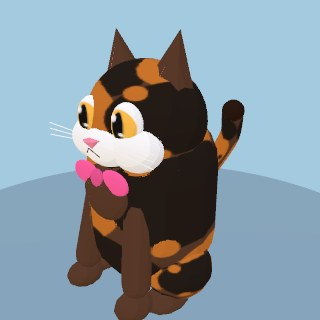
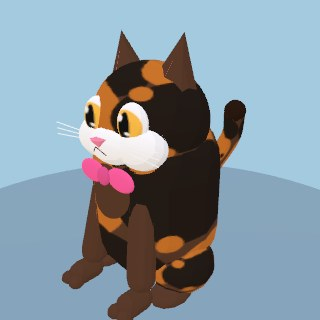
True painted-on chest decal + seamless sit-pose paws
- The chest patch is now a thin decal shell bent onto the torso: a
  multi-ring polar grid whose every vertex sits on the body capsule's own
  cross-section radius (+0.018), so it reads as a coat marking — flat like
  paint, with nothing for the bandana flap or legs to collide with. (A
  CircleGeometry fan sagged below the curved body mid-span and let the
  coat poke through as wedges; the grid keeps every triangle short.) The
  tuxedo/mitted bib is wide enough that the legs emerge inside its span.
- Sit-pose paws: the ball paw is replaced by a forward-pointing rounded
  capsule whose back cap buries into the leg's lower end — its radius
  nearly matches the leg's, so the ankle reads as one form bending
  forward — with two toe bumps at the tip, per reference photos.

Catalog thumbnails regenerated.

Claude-Session: https://claude.ai/code/session_017fyz1DfGtQ1NoLSq3UX5Bd

diff --git a/src/models.js b/src/models.js
@@ -566,6 +566,59 @@ const _cShade = _shared(new THREE.MeshStandardMaterial({ color: 0x0a0a0a, roughn
 // Constant cat geometries — identical for every cat, so build each ONCE and let
 // all drivers reference it (flagged shared so disposeGroup leaves them alone).
 const _sharedGeo = (g) => { g.userData.shared = true; return g; };
+
+// Chest-patch decal: a disc bent onto the torso so every vertex sits on the
+// body capsule's own cross-section radius (+0.018 so it draws on top). Reads
+// as a painted coat marking — no bulge to shade as a lump or to clip the
+// neckwear/legs. Two sizes: the big tuxedo/mitted bib and the regular patch.
+const _chestDecalGeo = {};
+function chestDecalGeo(big) {
+  const key = big ? "b" : "s";
+  if (_chestDecalGeo[key]) return _chestDecalGeo[key];
+  // The bib is wide enough (±0.62 rad) that the front legs emerge INSIDE its
+  // span — on a dark tuxedo coat any gap between bib edge and white leg
+  // reads as a black sliver slicing the bib.
+  const { A, H, yc } = big ? { A: 0.62, H: 0.5, yc: 1.14 } : { A: 0.4, H: 0.36, yc: 1.28 };
+  // A multi-ring polar grid, NOT CircleGeometry — that's a fan from the
+  // centre whose long flat radial triangles sag below the curved body
+  // mid-span once bent, letting the coat poke through as wedges.
+  const S = 28, R = 6;
+  const disc = [[0, 0]];
+  for (let j = 1; j <= R; j++)
+    for (let k = 0; k < S; k++) {
+      const a = (k / S) * Math.PI * 2, rho = j / R;
+      disc.push([rho * Math.cos(a), rho * Math.sin(a)]);
+    }
+  const idx = [];
+  for (let k = 0; k < S; k++) idx.push(0, 1 + k, 1 + ((k + 1) % S));
+  for (let j = 1; j < R; j++) {
+    const a0 = 1 + (j - 1) * S, b0 = 1 + j * S;
+    for (let k = 0; k < S; k++) {
+      const k2 = (k + 1) % S;
+      idx.push(a0 + k, b0 + k, b0 + k2, a0 + k, b0 + k2, a0 + k2);
+    }
+  }
+  const pos = new Float32Array(disc.length * 3);
+  const uv = new Float32Array(disc.length * 2);
+  disc.forEach(([px, py], i) => {
+    const y = yc + py * H;
+    const dy = Math.max(0, y - 1.39); // torso cylinder ends at y1.39, hemisphere above
+    const r = Math.sqrt(Math.max(0.01, 0.81 - dy * dy)) + 0.018;
+    const phi = px * A;
+    pos[i * 3] = r * Math.sin(phi);
+    pos[i * 3 + 1] = y;
+    pos[i * 3 + 2] = r * Math.cos(phi);
+    uv[i * 2] = (px + 1) / 2;
+    uv[i * 2 + 1] = (py + 1) / 2;
+  });
+  const g = new THREE.BufferGeometry();
+  g.setAttribute("position", new THREE.BufferAttribute(pos, 3));
+  g.setAttribute("uv", new THREE.BufferAttribute(uv, 2));
+  g.setIndex(idx);
+  g.computeVertexNormals();
+  return (_chestDecalGeo[key] = _sharedGeo(g));
+}
+
 let _catConstGeo = null;
 function catConstGeo() {
   if (_catConstGeo) return _catConstGeo;
@@ -624,7 +677,11 @@ const ARM_POSES = {
   // the TOP toward the body midline — the chest bulges most at x0, so an
   // inward-leaning top tucks fully under the surface instead of standing
   // proud of the flatter surface out at shoulder x.
-  sit: { armR: 0.19, armRot: -0.18, armLen: 0.95, armLean: 0.12, armPos: [0, -0.41, 0.27], pawPos: [0, -1.16, 0.42], pawScale: [1.05, 0.8, 1.3], beans: false },
+  // pawLog swaps the ball paw for a forward-pointing rounded capsule whose
+  // back end buries deep into the leg — its radius nearly matches the leg's,
+  // so the ankle reads as ONE form bending forward (with two toe bumps at
+  // the tip) instead of two primitives slapped together.
+  sit: { armR: 0.19, armRot: -0.18, armLen: 0.95, armLean: 0.12, armPos: [0, -0.41, 0.27], pawPos: [0, -1.145, 0.5], pawLog: true, beans: false },
   // Standing on the hind legs like a curious meerkat-cat: front paws dangle at
   // the sides, hind feet planted under the body (built in the stand block below).
   stand: { armR: 0.17, armRot: -0.06, armPos: [0, -0.5, 0.04], pawPos: [0, -1.0, 0.16], pawScale: [1, 0.85, 1.2], beans: false },
@@ -713,14 +770,12 @@ export function createCat(furColor = 0xf0a830, opts = {}) {
   const chestMat = isSmoke
     ? sharedMat("csmoke", () => new THREE.MeshStandardMaterial({ color: 0xc9ced6, roughness: 0.92 }))
     : (isSolid || isTortie) ? fur : white;
-  // A PAINTED-ON round chest patch: a shallow cap high on the chest, only
-  // ~0.1 proud of the torso (the old deep bulge at belly height shaded like
-  // a pair of lobes once the front legs carved through it). The squashed
-  // sphere's equator sits BURIED inside the body (rim z 0.78 < torso 0.9),
-  // so the visible boundary is a clean circle, never a grazing jagged edge.
-  const chest = new THREE.Mesh(new THREE.SphereGeometry(0.62, 26, 20), chestMat);
-  chest.position.set(0, hasBib ? 1.18 : 1.28, 0.78);
-  chest.scale.set(hasBib ? 0.78 : 0.62, hasBib ? 0.78 : 0.62, 0.35);
+  // A PAINTED-ON round chest patch: a thin decal shell that CONFORMS to the
+  // torso (every vertex sits on the body's own cross-section radius + 0.018),
+  // so it reads as a coat marking — flat like paint, and nothing for the
+  // bandana flap or the front legs to collide with. (Every proud-ball
+  // version before it shaded as a 3D lump and clipped the neckwear.)
+  const chest = new THREE.Mesh(chestDecalGeo(hasBib), chestMat);
   catStatic.push(chest);
 
   // Front paws — posed for the scenario (opts.pose):
@@ -750,10 +805,26 @@ export function createCat(furColor = 0xf0a830, opts = {}) {
       arm.position.x -= sx * Math.sin(ap.armLean) * half;
     }
     parts.push(arm);
-    const paw = new THREE.Mesh(new THREE.SphereGeometry(0.21, 12, 12), pawMat);
-    paw.position.set(...ap.pawPos);
-    paw.scale.set(...ap.pawScale);
-    parts.push(paw);
+    if (ap.pawLog) {
+      // Seamless ankle: a forward-pointing rounded capsule (radius ~ the
+      // leg's) whose back cap is swallowed by the leg's lower end, plus two
+      // toe bumps at the tip with a soft groove between them.
+      const paw = new THREE.Mesh(new THREE.CapsuleGeometry(0.165, 0.2, 6, 12), pawMat);
+      paw.position.set(...ap.pawPos);
+      paw.rotation.x = Math.PI / 2;
+      parts.push(paw);
+      for (const tx of [-0.085, 0.085]) {
+        const toe = new THREE.Mesh(new THREE.SphereGeometry(0.1, 10, 10), pawMat);
+        toe.position.set(tx, ap.pawPos[1] - 0.045, ap.pawPos[2] + 0.24);
+        toe.scale.set(1, 0.9, 1.15);
+        parts.push(toe);
+      }
+    } else {
+      const paw = new THREE.Mesh(new THREE.SphereGeometry(0.21, 12, 12), pawMat);
+      paw.position.set(...ap.pawPos);
+      paw.scale.set(...ap.pawScale);
+      parts.push(paw);
+    }
     // Toe-bean detail: three little pads on the front of each paw (poses with
     // grounded paws skip them — see ARM_POSES.sit).
     if (ap.beans !== false) {
